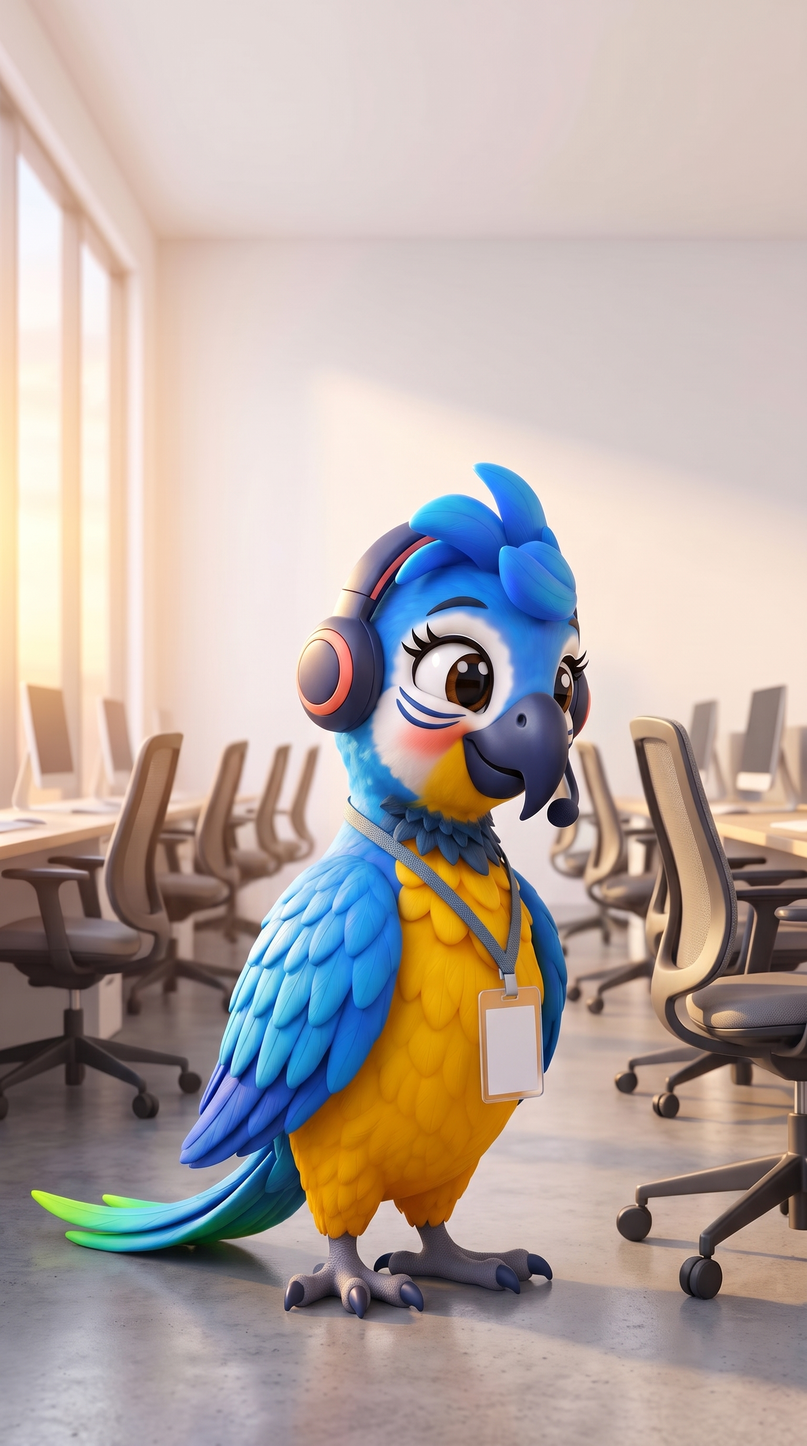
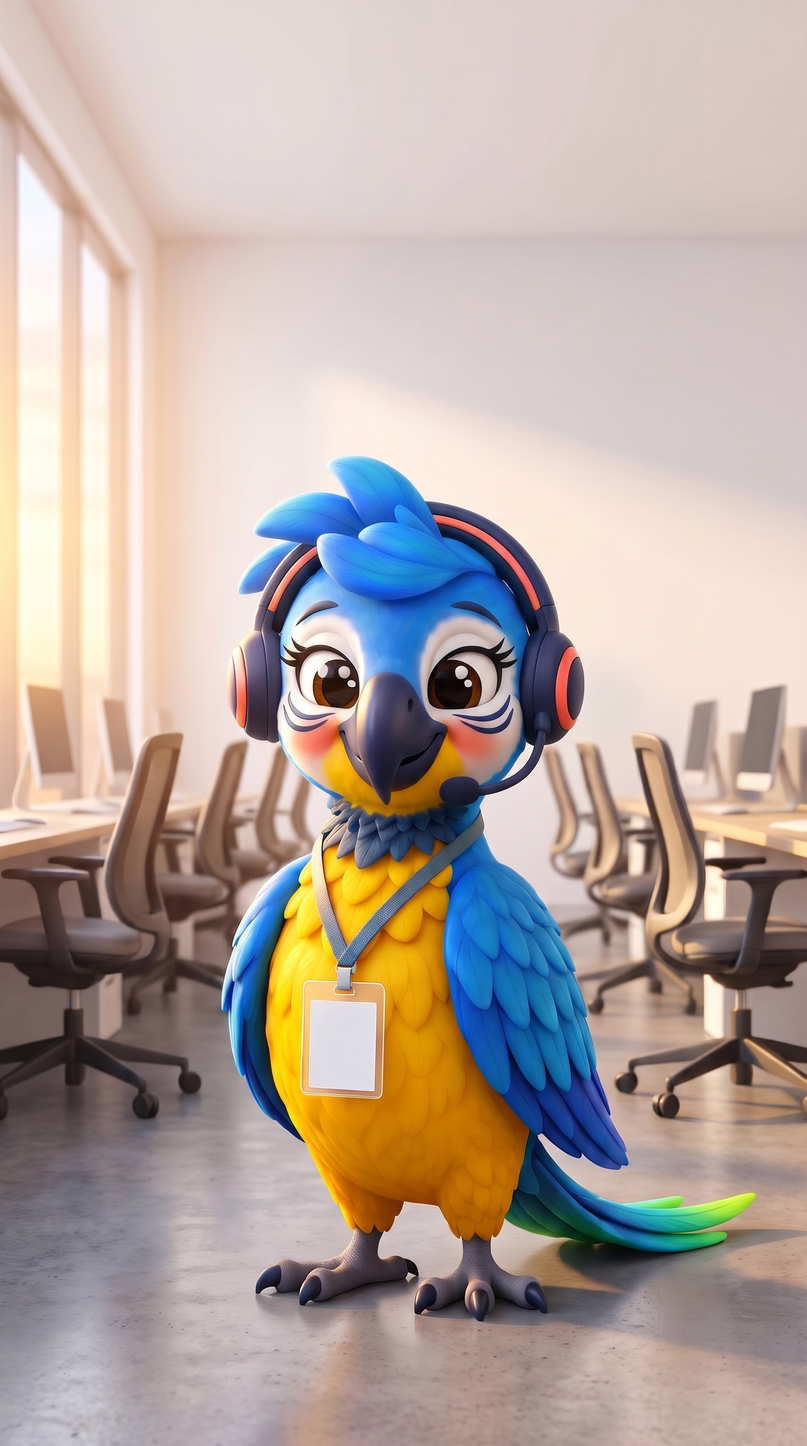
feat(arara): segunda tela 2 com a Rara de frente

Changed region(s): [[0.0312, 0.3125, 1.0, 1.0]]

diff --git a/semana_23_29_diario/compor_telas.py b/semana_23_29_diario/compor_telas.py
@@ -6,7 +6,7 @@ HERE = pathlib.Path(__file__).resolve().parent
 SC = HERE.parent / 'semana1' / '_scripts'
 # topo do personagem em px (1920): onde o balão NÃO pode chegar
 EPS = {
- 'seg': dict(img=['seg_escritorio_v1.jpg', 'seg_2.jpg', 'seg_3.jpg'], sel='DIÁRIO DA RARA', topo=[613, 616, 470], titulo='Segunda e eu cheguei primeiro', kw='primeiro',
+ 'seg': dict(img=['seg_escritorio_v1.jpg', 'seg_2.jpg', 'seg_3.jpg'], sel='DIÁRIO DA RARA', topo=[613, 613, 470], titulo='Segunda e eu cheguei primeiro', kw='primeiro',
    telas=[ ['são 7h e o escritório inteiro é meu'],
            ['ensaiei o japonês do trabalho em voz alta', '<small>お疲れ様です (otsukaresama desu) pra cadeira, e ela nem respondeu</small>'],
            ['só tem um detalhe', '<small>e até agora ninguém chegou</small>'] ]),

diff --git a/semana_23_29_diario/ESTADO.md b/semana_23_29_diario/ESTADO.md
@@ -57,3 +57,4 @@ Fila: seg2, seg3, qua2, qua3, sex2, sex3, sab2, sab3, dom2, dom3 (tabela acima).
 
 ## Telas v2 compostas (13/11, ~00h30 UTC)
 15 telas, UMA IMAGEM PRÓPRIA por tela (`geradas/<ep>_2.jpg`, `_3.jpg` e a cena original na tela 1), balão sempre acima do personagem e, em seg 3 e dom 2, acima do relógio e dos quadros. Frase de seg 3 trocada por "e até agora ninguém chegou". Dom 2 com balão em 46 px (cabe sem tocar o selo). Custo: 15 imagens no total pelo gerador do Google, cerca de US$ 1,0 pela estimativa (US$ 0,068 por imagem); teto da semana US$ 2. Aguardam OK; nada agendado.
+- seg_2 v2 frontal (12/11 ~00h20 UTC): a v1 foi reprovada pelo Rodrigo ('de lado não parece a Rara'). v2: rosto frontal, sorriso gentil, cabeça levemente inclinada; reverência bem sutil (quase em pé), crachá reto; topo=613
